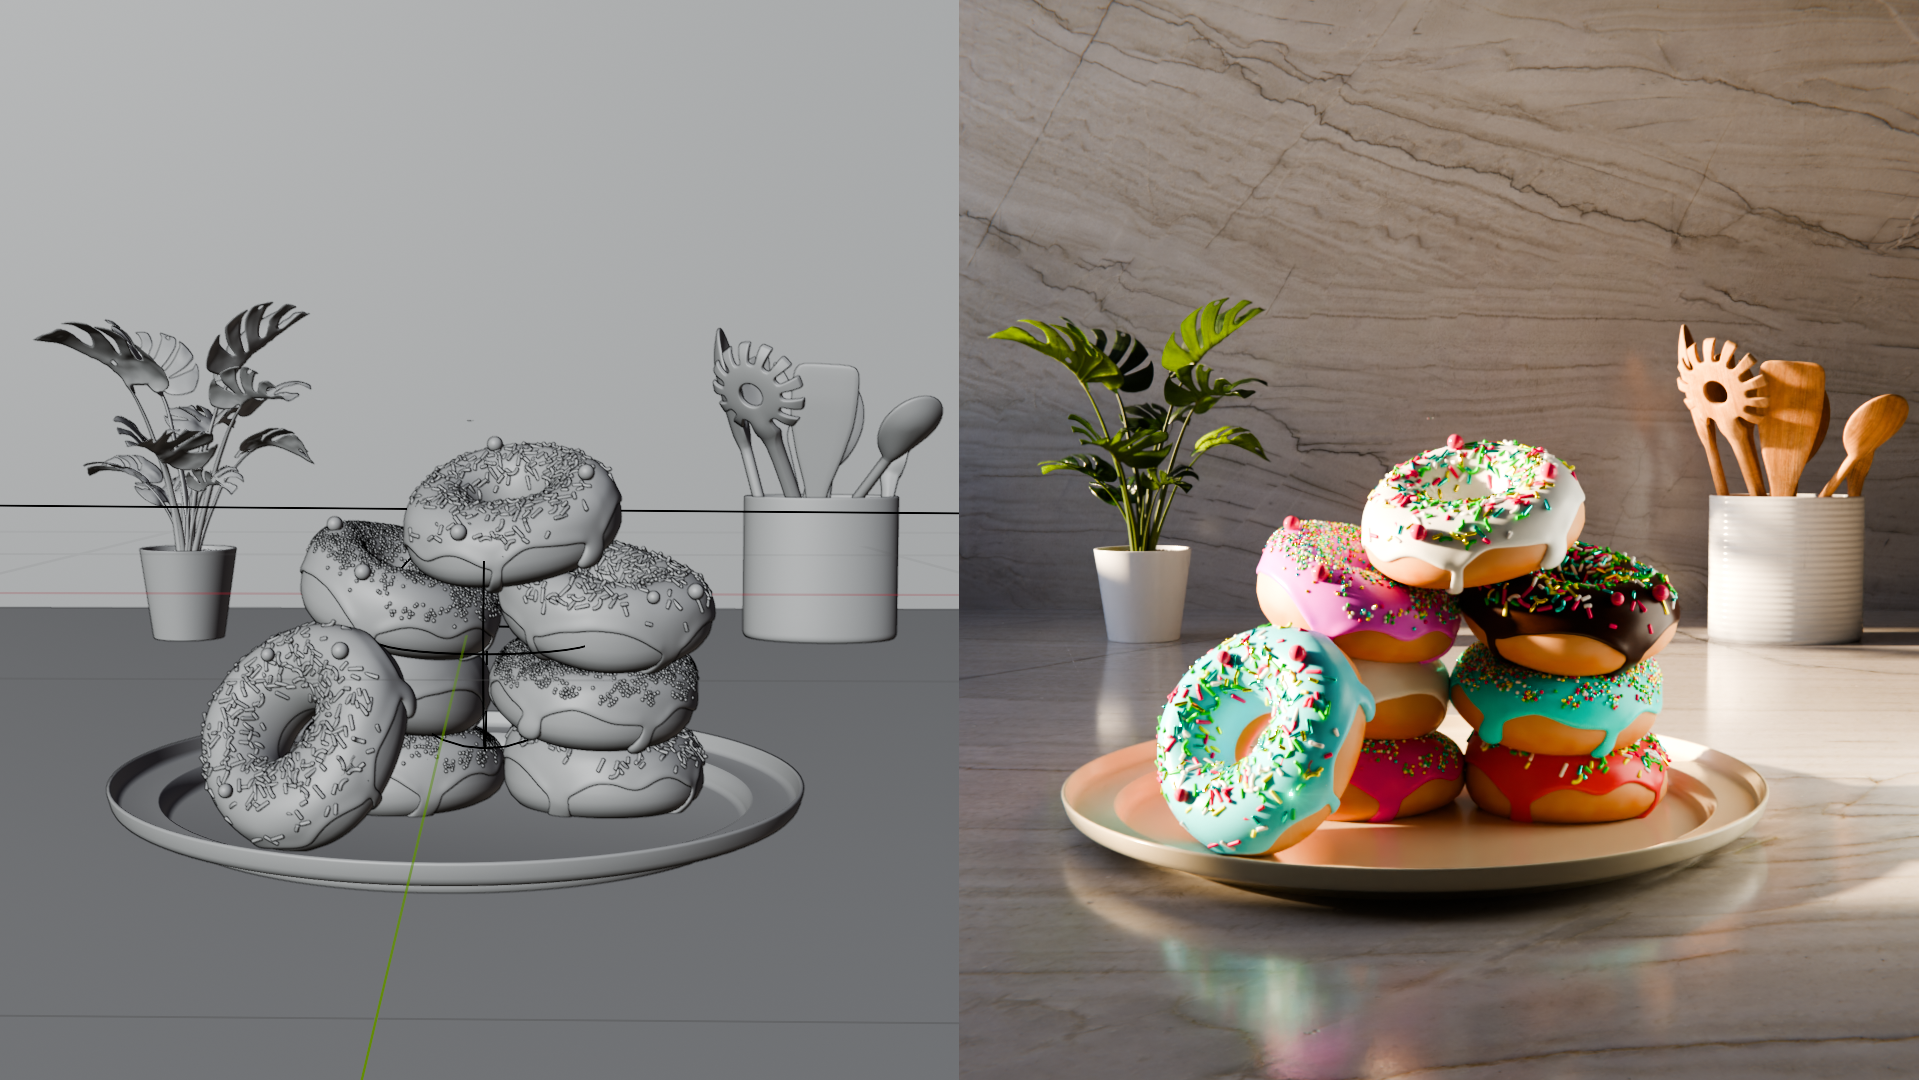
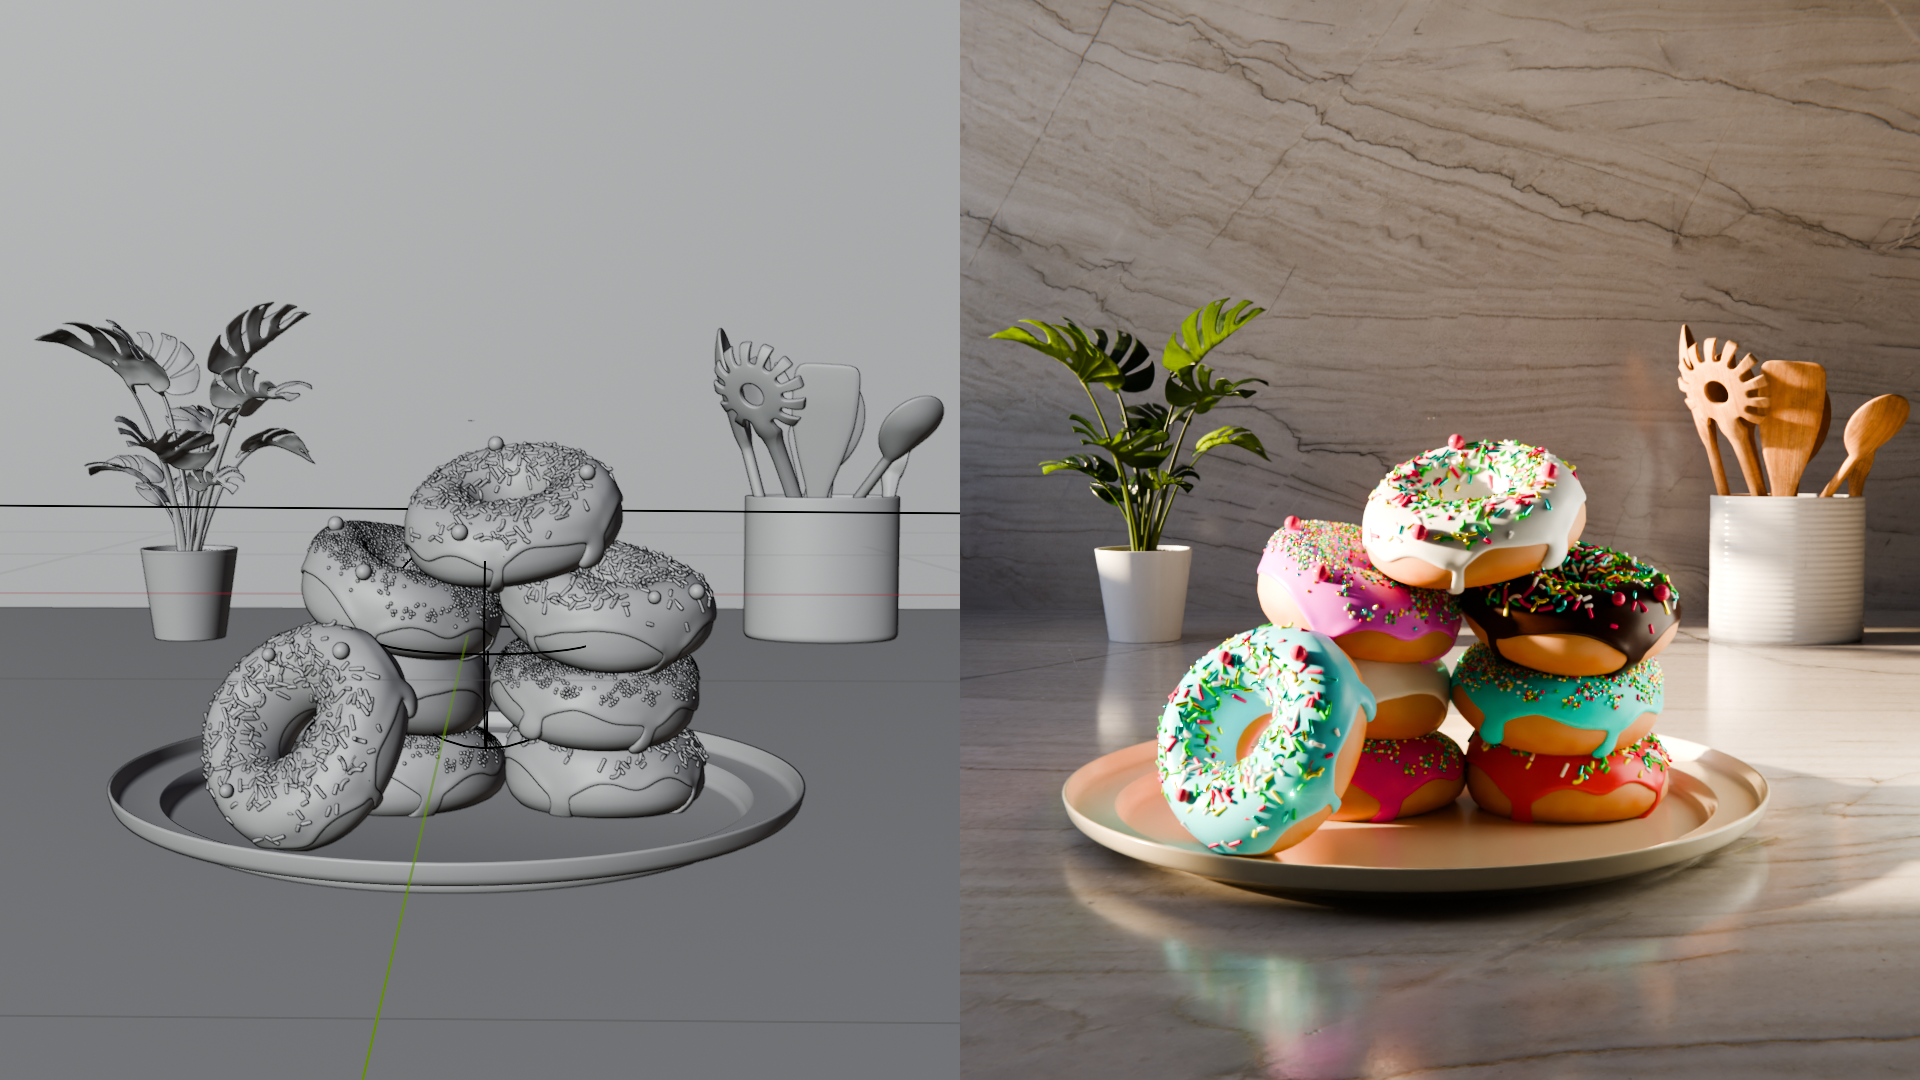
Updated Portfolio

diff --git a/index.html b/index.html
@@ -72,7 +72,7 @@
         <div class="p-3 hero-info animationLeft">
           <h3>Hello, I am</h3>
           <h1>Raeesa Samaai</h1>
-          <h3>I am a <span id="changing-text">Junior Graphic Designer</span></h3>
+          <h3>I am a <span id="changing-text">Junior </span></h3>
           <p>From Cape Town, South Africa</p>
          <div class="social-icons">
 					<a href="https://www.facebook.com/profile.php?id=100083770120554&mibextid=ZbWKwL" class="icon"><svg xmlns="http://www.w3.org/2000/svg" height="1em" viewBox="0 0 448 512"><!--! Font Awesome Free 6.4.2 by @fontawesome - https://fontawesome.com License - https://fontawesome.com/license (Commercial License) Copyright 2023 Fonticons, Inc. --><style>svg{fill:#ffffff}</style><path d="M400 32H48A48 48 0 0 0 0 80v352a48 48 0 0 0 48 48h137.25V327.69h-63V256h63v-54.64c0-62.15 37-96.48 93.67-96.48 27.14 0 55.52 4.84 55.52 4.84v61h-31.27c-30.81 0-40.42 19.12-40.42 38.73V256h68.78l-11 71.69h-57.78V480H400a48 48 0 0 0 48-48V80a48 48 0 0 0-48-48z"/></svg></a>
@@ -185,25 +185,52 @@
         <div class="tab-pane fade show active" id="websites">
 			<div class="card-container">
 				<div class="card">
-				<a href="https://raeesasamaai.github.io/Sun-Eco-Travels-Contact-Page/"><img src="Images/sun.png" alt="PortfolioWebsite"></a>
+				<a href="https://raeesasamaai.github.io/Sun-Eco-Travels-Contact-Page/"><img src="Images/sun.png" alt="Sun Eco Travels Contact Page"></a>
 					<div class="card-content">
 					<h3>Sun Eco Travels Contact Page</h3>
 					<p>A responsive and user-friendly contact page designed using HTML and CSS. It features a clean layout with a contact form, company details, and interactive elements to ensure seamless communication.</p>
 					</div>
+					<!--<div class="info-container">
+						<div class="info">
+							HTML
+						</div>
+						<div class="info" style="background-color: maroon;">
+							CSS
+						</div>
+					</div>-->
 				</div>		
 				<div class="card">
-				<a href="https://raeesasamaai.github.io/Beemerghini-Motors-Website/"><img src="Images/BGM.png" alt="PortfolioWebsite"></a>
+				<a href="https://raeesasamaai.github.io/Beemerghini-Motors-Website/"><img src="Images/BGM.png" alt="Beemerghini Motors Website"></a>
 					<div class="card-content">
 					<h3>Beemerghini Motors Website</h3>	
-					<p>A sleek and dynamic home page designed in HTML, CSS, and JavaScript for Beemerghini Motors, a company specializing in BMW and Lamborghini cars. The page features a modern layout, interactive elements, and responsive design to provide an engaging user experience.</p>
+					<p>A sleek and dynamic home page designed using HTML, CSS, and JavaScript for Beemerghini Motors, a company specializing in BMW and Lamborghini cars. The page features a modern layout, interactive elements, and responsive design to provide an engaging user experience.</p>
 					</div>
+					<!---<div class="info-container">
+						<div class="info">
+							HTML
+						</div>
+						<div class="info" style="background-color: maroon;">
+							CSS
+						</div>
+						<div class="info" style="background-color: orangered;">
+							JS
+						</div>
+					</div>-->
 				</div>
 				<div class="card">
-				<a href="https://raeesasamaai.github.io/Javascript-Bmw-Configurator/"><img src="Images/BMW Configurator.png" alt="PortfolioWebsite"></a>
+				<a href="https://raeesasamaai.github.io/BMW-Customizer/"><img src="Images/BMW Configurator.png" alt="BMW Customizer"></a>
 					<div class="card-content">
-					<h3>JavaScript BMW Configurator</h3>
-					<p>hgghhzdbHAJKHAJhhjjaJHDhjhawdgh</p>
+					<h3>BMW Customizer</h3>
+					<p>The BMW Customizer is an interactive web application built with HTML and JavaScript, allowing users to design their ideal BMW by customizing the car's color and tire options. Users can visualize their personalized vehicle in real-time, offering a dynamic and engaging experience.</p>
 					</div>
+					<!--<div class="info-container">
+						<div class="info">
+							HTML
+						</div>
+						<div class="info" style="background-color: orangered;">
+							JS
+						</div>
+					</div>-->
 				</div>
 			</div>
         </div>
@@ -216,7 +243,7 @@
 						 class="card-img" 
 						 onclick="openModal(event)" 
 						 data-caption="Sun Eco Travel Logo" 
-						 data-text="This logo represents eco-friendly travel." />
+						 data-text="" />
 					<div class="card-content">
 						<h3>Sun Eco Travel Logo</h3>
 						<p>A vibrant logo symbolising sustainable travel designed for an eco-conscious travel brand. Created in Adobe Photoshop, the logo reflects the brand's commitment to environmentally friendly adventures.</p>
@@ -231,7 +258,7 @@
 						 class="card-img" 
 						 onclick="openModal(event)" 
 						 data-caption="My Digital Portfolio Logo" 
-						 data-text="A creative logo design for a personal portfolio." />
+						 data-text="" />
 					<div class="card-content">
 						<h3>My Digital Portfolio Logo</h3>
 						<p>A bold and modern monogram logo combining the letters 'R' and 'S' into a seamless design. Created to represent a clean and professional brand identity for my portfolio.</p>
@@ -289,7 +316,7 @@
 					<img src="Images/floating island.jpg" alt="Floating Island" class="card-img" onclick="openModal()">
 					<div class="card-content">
 						<h3>Floating Island</h3>
-						<p>hgghhzdbHAJKHAJhhjjaJHDhjhawdgh</p>
+						<p>This enchanting design showcases a floating island surrounded by the magical glow of the northern lights which creates a dreamy and magical scene. Created in Adobe Photoshop, this piece uses layers to blend all elements seamlessly into a magical setting.</p>
 						<img src="Images/adobe-photoshop-logo-0.png" alt="Icon" class="me-3" style="width: 27px;">
 					</div>
 				</div>
@@ -300,7 +327,7 @@
 					<img class="modal-content" id="modalImage">
 					<div id="modalCaption"></div>
 					<p id="modalText" class="modal-text">
-						A floating island made in Adobe Photoshop
+						
 					</p>
 				</div>
 				
@@ -308,7 +335,7 @@
 				<img src="Images/studentclubcard2-min.png" alt="Student Club Card" class="card-img" onclick="openModal()">
 					<div class="card-content">
 					<h3>KLM Airlines Student Club Card</h3>	
-					<p>hgghhzdbHAJKHAJhhjjaJHDhjhawdgh</p>									
+					<p>This KLM Airlines Student Club Card design, created using Adobe Photoshop, incorporates the airline's official brand colors to deliver a sleek and professional look. The design aims to capture the essence of KLM's identity while offering a stylish card for students.</p>									
 					<img src="Images/adobe-photoshop-logo-0.png" alt="Icon" class="me-3" style="width: 27px;">
 				</div>
 				</div>	
@@ -317,7 +344,7 @@
 					<img class="modal-content" id="modalImage">
 					<div id="modalCaption"></div>
 					<p id="modalText" class="modal-text">
-						A floating island made in Adobe Photoshop
+						
 					</p>
 				</div>
 
@@ -325,7 +352,7 @@
 				<img src="Images/ASTRONAUT-min.jpg" alt="Astronaut" class="card-img" onclick="openModal()">
 					<div class="card-content">
 					<h3>Astronaut in space</h3>
-					<p>hgghhzdbHAJKHAJhhjjaJHDhjhawdgh</p>				
+					<p>This digital artwork features an astronaut surrounded by stars and planets, created by skillfully manipulating layers in Adobe Photoshop. The design embraces a galactic theme, perfectly aligning with the cosmic inspiration behind my digital portfolio.</p>				
 					<img src="Images/adobe-photoshop-logo-0.png" alt="Icon" class="me-3" style="width: 27px;">
 				</div>
 				</div>	
@@ -334,15 +361,15 @@
 					<img class="modal-content" id="modalImage">
 					<div id="modalCaption"></div>
 					<p id="modalText" class="modal-text">
-						A floating island made in Adobe Photoshop
+						
 					</p>
 				</div>
 
 				<div class="card">
 					<img src="Images/Donut.png" alt="Kitchen Scene" onclick="openModal()">
 						<div class="card-content">
-						<h3>Kitchen Scene</h3>
-						<p>hgghhzdbHAJKHAJhhjjaJHDhjhawdgh</p>				
+						<h3>Realistic Kitchen Scene</h3>
+						<p>This realistic 3D kitchen scene, created entirely in Blender 4.0, showcases a realistic countertop with a plate of donuts as the focal point. From modeling the donuts and the plate to adjusting textures, lighting, and composition, every detail was crafted in Blender.</p>				
 						<img src="Images/Blender_logo_no_text.svg.png" alt="Icon" class="me-3" style="width: 27px;">
 					</div>
 					</div>
@@ -351,15 +378,15 @@
 						<img class="modal-content" id="modalImage">
 						<div id="modalCaption"></div>
 						<p id="modalText" class="modal-text">
-							A floating island made in Adobe Photoshop
+							
 						</p>
 					</div>
 
 				<div class="card">
-						<img src="Images/Apple.png" alt="Blender Model Iphone 15" onclick="openModal()">
+						<img src="Images/Apple.png" alt="iPhone 15 Realism Render" onclick="openModal()">
 							<div class="card-content">
-							<h3>Iphone 15 Model Blender 4.0</h3>
-							<p>hgghhzdbHAJKHAJhhjjaJHDhjhawdgh</p>				
+							<h3>iPhone 15 Realism Render</h3>
+							<p>This 3D design of the iPhone 15 was created entirely in Blender 4.0, showcasing a highly realistic model and attention to detail. From the sleek body to the intricate detailing of all three cameras, every element was carefully crafted to capture the phone's premium design.</p>				
 							<img src="Images/Blender_logo_no_text.svg.png" alt="Icon" class="me-3" style="width: 27px;">
 					</div>
 				</div>
@@ -368,7 +395,7 @@
 					<img class="modal-content" id="modalImage">
 					<div id="modalCaption"></div>
 					<p id="modalText" class="modal-text">
-						A floating island made in Adobe Photoshop
+						
 					</p>
 				</div>	
 
@@ -377,7 +404,7 @@
 						<iframe height="180px" src="https://www.youtube.com/embed/yQrdlXcArkc" title="BMW &amp; Lamborghini Promotional Video" frameborder="0" allow="accelerometer; autoplay; clipboard-write; encrypted-media; gyroscope; picture-in-picture; web-share" referrerpolicy="strict-origin-when-cross-origin" allowfullscreen></iframe>
 					<div class="card-content">
 					<h3>BMW & Lamborgini Anniversary Video</h3>
-					<p>hgghhzdbHAJKHAJhhjjaJHDhjhawdgh</p>
+					<p>A cinematic anniversary video created for Beemerghini Motors, showcasing the elegance and power of BMW and Lamborghini cars. The video features stunning visuals, smooth transitions, and dynamic editing to celebrate the brand's journey and passion for luxury automobiles.</p>
 					<img src="Images/Capcut-Logo-PNG-Photos.png" alt="Icon" class="me-3" style="width: 27px;">
 				</div>
 				</div>	

diff --git a/Home.css b/Home.css
@@ -1659,6 +1659,22 @@ img.hover-shadow {
   box-shadow: 0 4px 8px 0 rgba(0, 0, 0, 0.2), 0 6px 20px 0 rgba(0, 0, 0, 0.19);
 }
 
-.card-caption{
-  
+.info-container{
+  display:inline-block;
+  margin-left:10px;
+  margin-bottom: 15px;
 }
+
+.info{
+  font-size: 10px;
+  background-color: green;
+  opacity: 0.8;
+  border-radius: 5px;
+  width:13%;
+  text-align: center;
+  font-weight: bold;
+  margin-left: 8px;
+  display:inline-block;
+}
+
+
